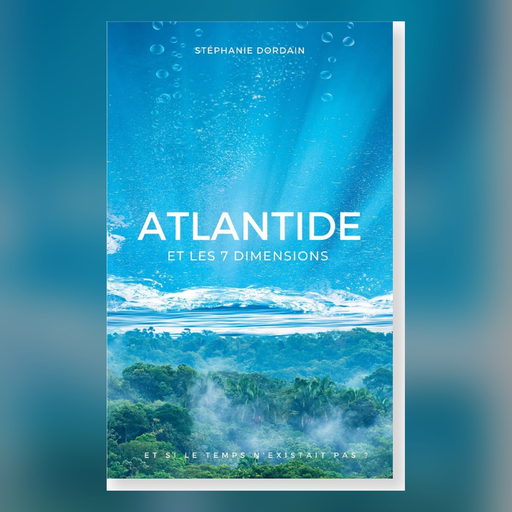
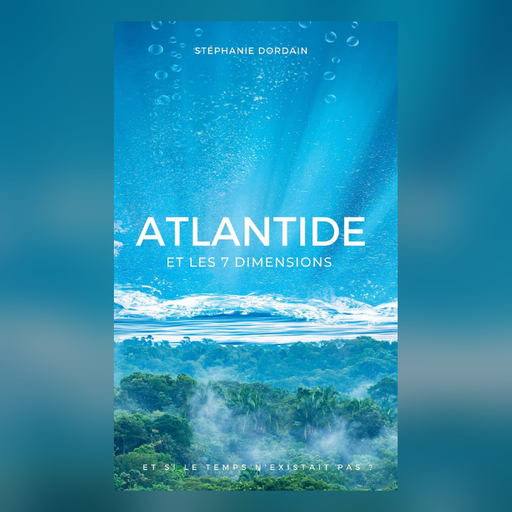
Atlantide : univers bleu, couverture sans bande blanche
Claude-Session: https://claude.ai/code/session_01GPhnbT6sB7eCovgvqE4MbN

diff --git a/atlantide-et-les-7-dimensions/index.html b/atlantide-et-les-7-dimensions/index.html
@@ -3,7 +3,7 @@
 
 <meta name="apple-mobile-web-app-capable" content="yes"><meta name="mobile-web-app-capable" content="yes">
 <meta name="apple-mobile-web-app-title" content="Atlantide et les 7 dimensions"><meta name="apple-mobile-web-app-status-bar-style" content="black-translucent">
-<meta name="theme-color" content="#130b08">
+<meta name="theme-color" content="#04121c">
 <link rel="apple-touch-icon" href="icon-180.png"><link rel="icon" href="icon-192.png"><link rel="manifest" href="manifest.json">
 <title>Atlantide et les 7 dimensions</title>
 <meta name="description" content="Atlantide et les 7 dimensions : un univers de fiction audio immersive® d&#x27;Alessa, Stéphanie Dordain.">
@@ -11,7 +11,7 @@
 <link rel="stylesheet" href="https://fonts.googleapis.com/css2?family=Manrope:wght@400..700&display=swap">
 <style>
 @font-face{font-family:"GrandCentral";src:url(../fonts/grandcentral.woff) format("woff");font-display:swap}
-:root{--night:#130b08;--deep:#301c16;--accent:#e06238;--gold:#f2bfae;--text:#f7eae6;--muted:#ccaa9f;--line:#e062383a;
+:root{--night:#04121c;--deep:#0b2b3f;--accent:#3fb8dc;--gold:#a9e4f2;--text:#eaf6fa;--muted:#9dbfcc;--line:#3fb8dc3a;
  --display:"GrandCentral","Cormorant Garamond",Georgia,serif;--sans:"Manrope","Helvetica Neue",Arial,sans-serif;color-scheme:dark}
 *{box-sizing:border-box;margin:0}
 html,body{background:var(--night);color:var(--text)}
@@ -86,7 +86,7 @@ h1{font:400 clamp(40px,11vw,64px)/1 var(--display);text-align:center;letter-spac
 .gate input{width:100%;font:16px var(--sans);color:var(--text);background:#00000040;border:1px solid var(--line);border-radius:10px;padding:13px 14px}
 .gate input:focus{outline:none;border-color:var(--accent)}
 .gate .btn{background:var(--accent);color:var(--night);border:0;border-radius:999px;padding:13px 18px;font:700 15px var(--sans);cursor:pointer}
-.gate .err{color:#f3c79c;font-size:13px;min-height:1em}
+.gate .err{color:#9fe0f2;font-size:13px;min-height:1em}
 #blocs{display:flex;flex-direction:column;gap:30px}
 #content{display:none;flex-direction:column;gap:26px}#content.on{display:flex}
 .inst{font-size:14px;padding:14px 16px;border:1px solid var(--accent);border-radius:12px;background:#ffffff06}.inst b{color:var(--gold)}

diff --git a/atlantide-et-les-7-dimensions/sw.js b/atlantide-et-les-7-dimensions/sw.js
@@ -1,4 +1,4 @@
-const SHELL="atlantide-et-les-7-dimensions-shell-v2",FILES=["./","index.html","cover.jpg","fond.jpg","icon-192.png","manifest.json","../fonts/grandcentral.woff"];
+const SHELL="atlantide-et-les-7-dimensions-shell-v3",FILES=["./","index.html","cover.jpg","fond.jpg","icon-192.png","manifest.json","../fonts/grandcentral.woff"];
 self.addEventListener("install",e=>{e.waitUntil(caches.open(SHELL).then(c=>c.addAll(FILES)).catch(()=>{}));self.skipWaiting()});
 self.addEventListener("activate",e=>e.waitUntil(caches.keys().then(k=>Promise.all(k.filter(n=>n.startsWith("atlantide-et-les-7-dimensions-shell-")&&n!==SHELL).map(n=>caches.delete(n)))).then(()=>self.clients.claim())));
 self.addEventListener("fetch",e=>{const u=new URL(e.request.url);if(e.request.method!=="GET"||/\.(mp3|m4a|mp4)$/.test(u.pathname))return;
